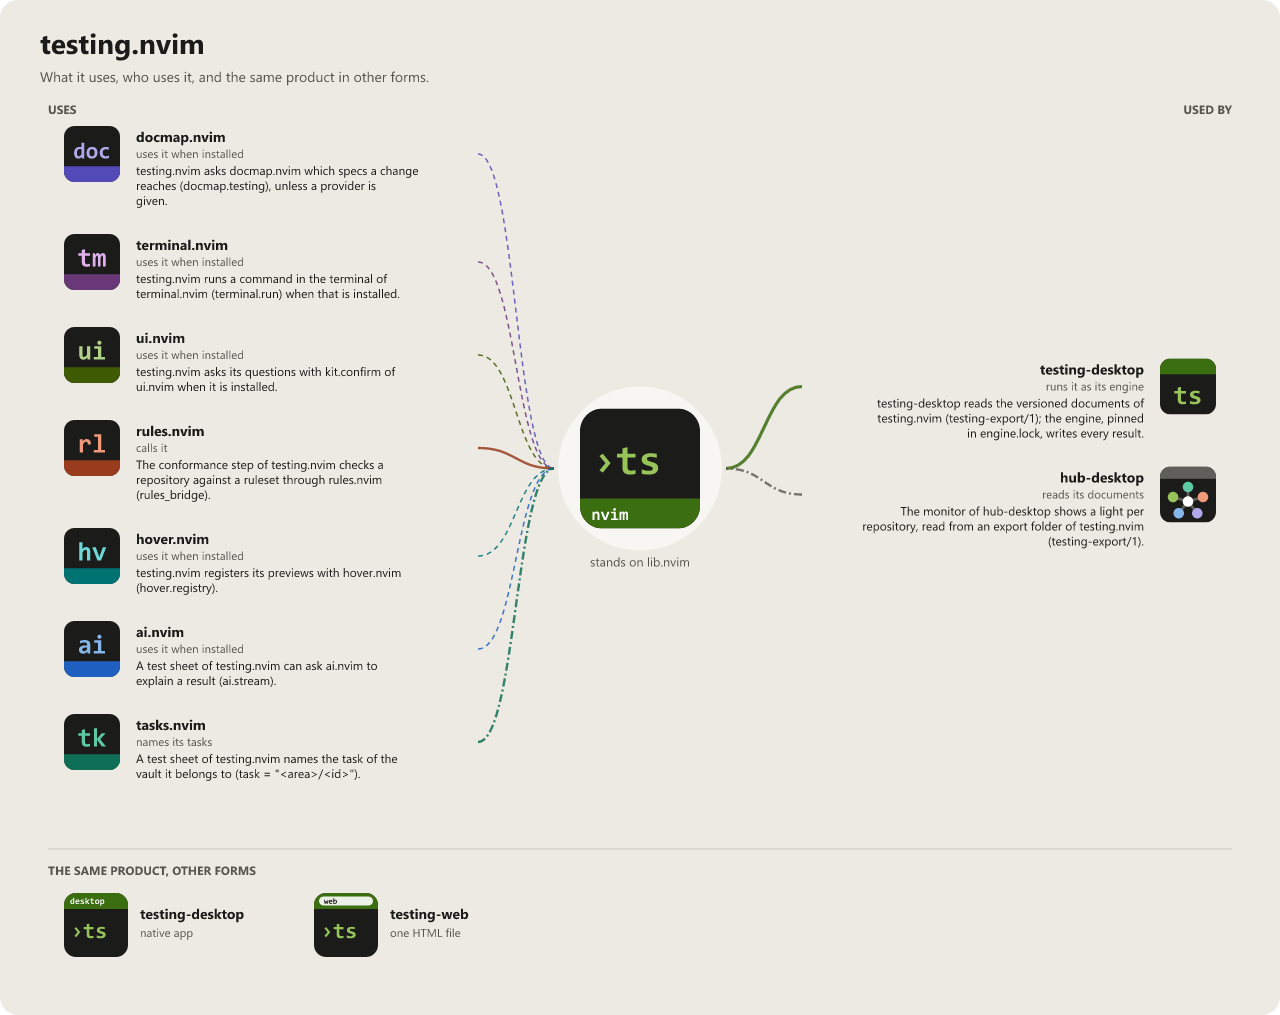
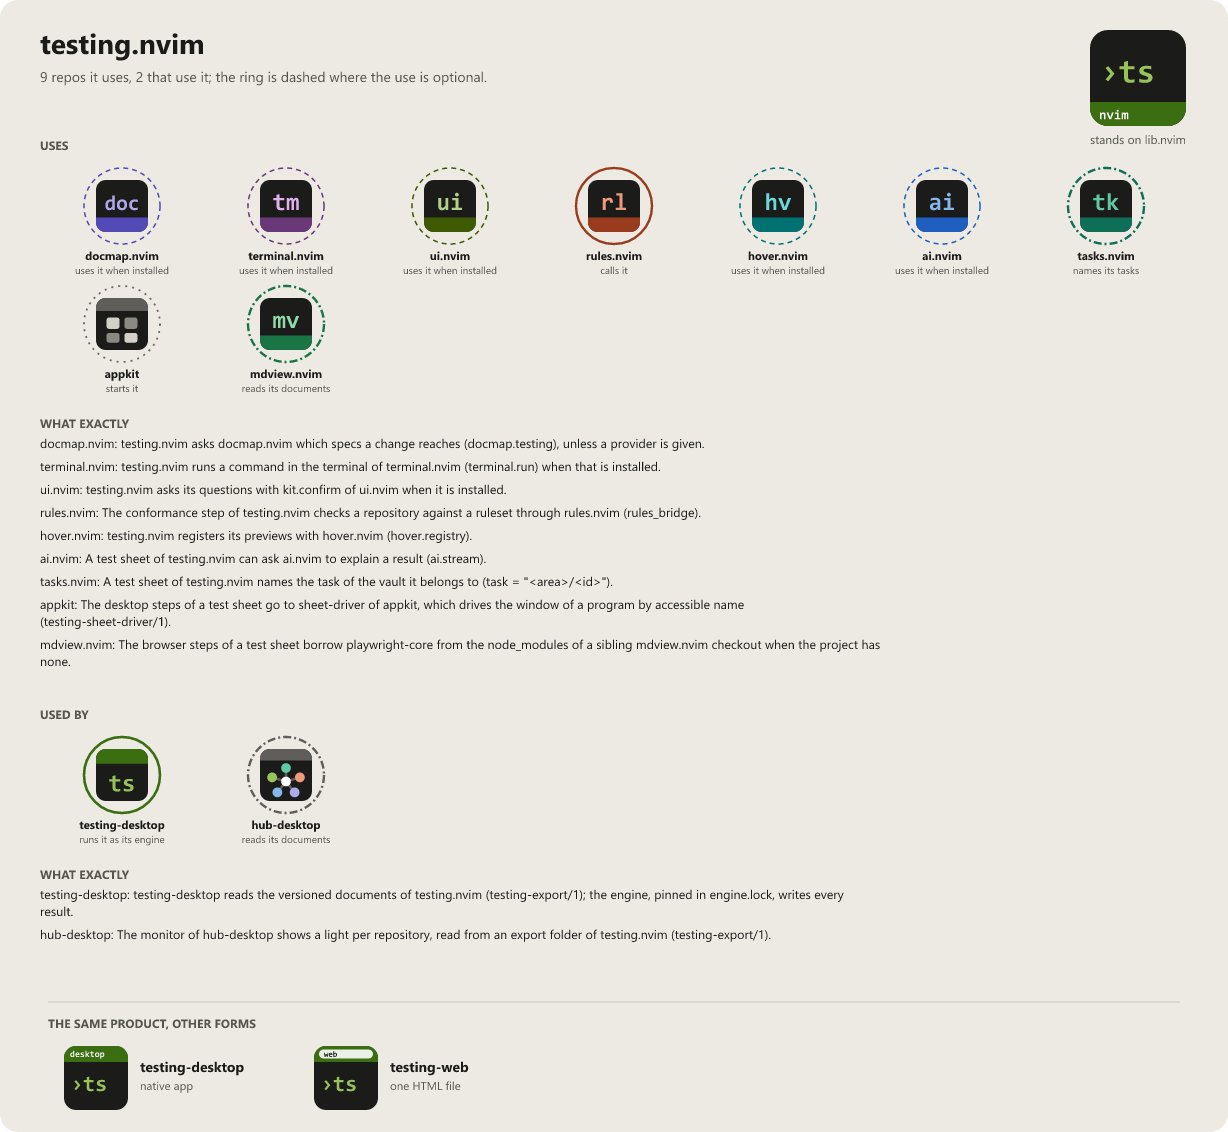
docs(graphs): connections through optional loaders, programs, HTTP and files
The connections picture and the README block now also show what the require rule did not see: optional loads through soft_require, lib.nvim.require.safe and package.loaded, and connections over programs, HTTP and files, each with a line of code as evidence. Written by the app-icons tool of the workshop (graphs.mjs install-repos).

diff --git a/README.md b/README.md
@@ -483,8 +483,10 @@ testing.nvim is released under the [MIT License](https://opensource.org/licenses
 **Uses**
 
 - [ai.nvim](https://github.com/WKDSteve/ai.nvim): A test sheet of testing.nvim can ask ai.nvim to explain a result (`ai.stream`). ([picture](assets/graphs/pair/testing.nvim--ai.nvim.png))
+- [appkit](https://github.com/WKDSteve/appkit): The desktop steps of a test sheet go to `sheet-driver` of appkit, which drives the window of a program by accessible name (`testing-sheet-driver/1`). ([picture](assets/graphs/pair/testing.nvim--appkit.png))
 - [docmap.nvim](https://github.com/WKDSteve/docmap.nvim): testing.nvim asks docmap.nvim which specs a change reaches (`docmap.testing`), unless a provider is given. ([picture](assets/graphs/pair/testing.nvim--docmap.nvim.png))
 - [hover.nvim](https://github.com/WKDSteve/hover.nvim): testing.nvim registers its previews with hover.nvim (`hover.registry`). ([picture](assets/graphs/pair/testing.nvim--hover.nvim.png))
+- [mdview.nvim](https://github.com/WKDSteve/mdview.nvim): The browser steps of a test sheet borrow `playwright-core` from the `node_modules` of a sibling mdview.nvim checkout when the project has none. ([picture](assets/graphs/pair/testing.nvim--mdview.nvim.png))
 - [rules.nvim](https://github.com/WKDSteve/rules.nvim): The conformance step of testing.nvim checks a repository against a ruleset through rules.nvim (`rules_bridge`). ([picture](assets/graphs/pair/testing.nvim--rules.nvim.png))
 - [tasks.nvim](https://github.com/WKDSteve/tasks.nvim): A test sheet of testing.nvim names the task of the vault it belongs to (`task = "<area>/<id>"`). ([picture](assets/graphs/pair/testing.nvim--tasks.nvim.png))
 - [terminal.nvim](https://github.com/WKDSteve/terminal.nvim): testing.nvim runs a command in the terminal of terminal.nvim (`terminal.run`) when that is installed. ([picture](assets/graphs/pair/testing.nvim--terminal.nvim.png))
